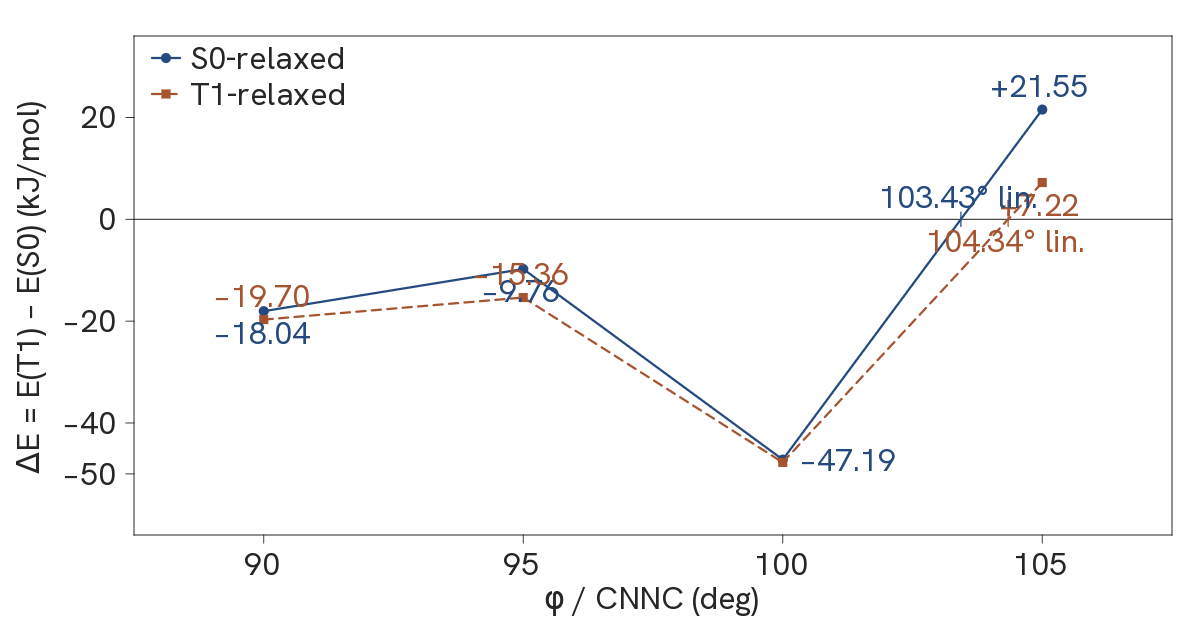
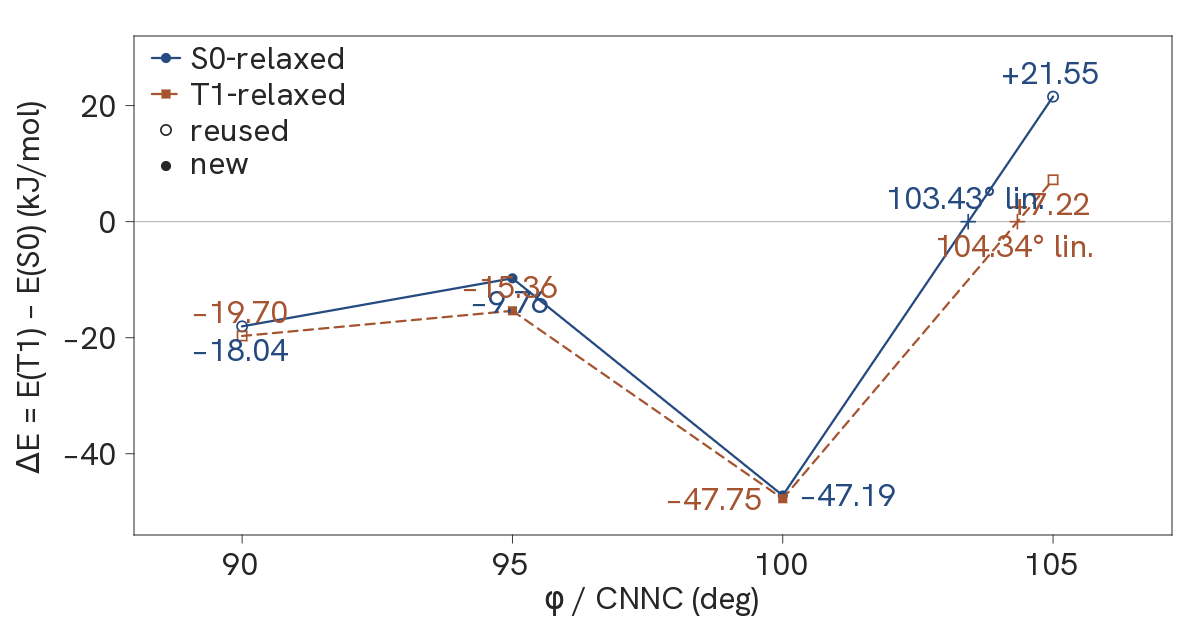
Install Figure 1 from points.json with open/filled markers
Portable regen now reads analysis/points.json for the two-decimal
ΔE labels and the stored 100–105 linear zeros (103.43° / 104.34°),
which are not recomputed from rounded energies. Open markers are
the reused 90° and 105° two-root points; filled markers are the
new 95° and 100° points. Caption matches the delivered figure.

diff --git a/research/hillel-m4-sft-dense-bracket/analysis/make_deltaE_figure.py b/research/hillel-m4-sft-dense-bracket/analysis/make_deltaE_figure.py
@@ -1,10 +1,11 @@
 #!/usr/bin/env python3
 """M4 denser 90–105° same-geometry SF-TDA figure: ACS plot (Fig 1).
 
-Reads results/dense_bracket_metrics.json at runtime for the two
-geometry-family series (S0-relaxed and T1-relaxed) and each family's
-100–105 linear interpolant. Does not invent points and does not label
-an interpolant as an MECP or an evaluated degeneracy. Lab frames are
+Reads analysis/points.json for the two geometry-family series
+(S0-relaxed and T1-relaxed), open/filled reuse flags, and each
+family's stored 100–105 linear interpolant. Does not invent points,
+does not recompute zeros from rounded ΔE, and does not label an
+interpolant as an MECP or an evaluated degeneracy. Lab frames are
 optional: a clean checkout writes the data plot and exits 0.
 
 Usage:
@@ -25,7 +26,7 @@ from PIL import Image, ImageDraw, ImageFont
 HERE = Path(__file__).resolve().parent
 ROOT = HERE.parent
 REPO_ROOT = ROOT.parents[1]
-METRICS_PATH = ROOT / "results" / "dense_bracket_metrics.json"
+POINTS_PATH = HERE / "points.json"
 FRAMES = ROOT / "frames"
 OUT_PREVIEW = HERE / "fig_deltaE_vs_phi.png"
 OUT_PUBLISHED = REPO_ROOT / "images" / "hillel-m4-sft-dense-bracket-figure1.png"
@@ -63,7 +64,7 @@ PLOT_FONT_PX = canvas_font_px(PLOT_W)    # 32
 STILL_FONT_PX = canvas_font_px(STILL_W)  # 43
 
 INK = np.array([38, 38, 38], dtype=np.float64)       # ~0.15 near-black
-ZERO_C = np.array([22, 22, 22], dtype=np.float64)
+ZERO_C = np.array([168, 168, 168], dtype=np.float64)  # grey ΔE=0 hairline
 SERIES_S0 = np.array([36, 74, 128], dtype=np.float64)   # S0-relaxed
 SERIES_T1 = np.array([166, 84, 48], dtype=np.float64)   # T1-relaxed
 WHITE = np.array([255, 255, 255], dtype=np.uint8)
@@ -78,49 +79,64 @@ CROP = (151, 28, 710, 601)  # x0, y0, x1, y1
 
 
 # ---------------------------------------------------------------------------
-# metrics — only source of plotted numbers
+# points.json — only source of plotted numbers
 # ---------------------------------------------------------------------------
 
-def load_metrics(path: Path) -> dict:
-    m = json.loads(path.read_text())
-    series = {family: [] for family in FAMILY_ORDER}
-    for p in m["points"]:
-        fam = p.get("geom_family")
-        if fam not in series:
-            raise SystemExit(f"unexpected geom_family {fam!r}")
-        if not p.get("both_assigned"):
-            raise SystemExit(
-                f"refusing to plot: {fam} φ={p.get('phi_deg')} not both_assigned"
-            )
-        series[fam].append((float(p["phi_deg"]), float(p["deltaE_kJmol"])))
-    for fam, pts in series.items():
+STORED_ZEROS = {"s0_relaxed": 103.43, "t1_relaxed": 104.34}
+
+
+def load_points(path: Path) -> dict:
+    """Load display points and stored zeros. Never interpolate from rounded ΔE."""
+    d = json.loads(path.read_text())
+    if d.get("unit") != "kJ/mol":
+        raise SystemExit(f"points.json unit must be kJ/mol, got {d.get('unit')!r}")
+    reused = [int(x) for x in d["reused_phi_deg"]]
+    new = [int(x) for x in d["new_phi_deg"]]
+    if reused != [90, 105] or new != [95, 100]:
+        raise SystemExit(f"unexpected reuse lists: reused={reused!r} new={new!r}")
+    if set(reused) & set(new):
+        raise SystemExit("a φ cannot be both reused and new")
+
+    series = {}
+    for fam in FAMILY_ORDER:
+        pts = []
+        for p in d[fam]:
+            phi = float(p["phi_deg"])
+            de = float(p["deltaE_kJmol"])
+            reused_flag = bool(p["reused"])
+            iphi = int(phi)
+            if reused_flag != (iphi in reused):
+                raise SystemExit(f"{fam} φ={iphi} reused flag does not match reused_phi_deg")
+            if (iphi in new) == reused_flag:
+                raise SystemExit(f"{fam} φ={iphi} is not exactly one of reused/new")
+            pts.append((phi, de, reused_flag))
         pts.sort(key=lambda t: t[0])
-        if [phi for phi, _ in pts] != [90, 95, 100, 105]:
+        if [int(phi) for phi, _, _ in pts] != [90, 95, 100, 105]:
             raise SystemExit(f"{fam} points are not the required window: {pts!r}")
+        series[fam] = pts
 
     interpolants = {}
-    for pair in m["neighboring_pairs"]:
-        ic = pair.get("interpolated_crossing_phi_deg")
-        fam = pair.get("geom_family")
-        if pair.get("sign_change") and ic is not None:
-            if tuple(pair["pair"]) != (100, 105):
-                raise SystemExit(f"interpolant is not on 100–105: {pair['pair']}")
-            interpolants[fam] = float(ic)
-        elif ic is not None:
-            raise SystemExit("non-null interpolant on a non-sign-change pair")
-
-    if set(interpolants) != set(FAMILY_ORDER):
-        raise SystemExit(f"expected interpolants for both families, got {interpolants!r}")
-    if abs(float(m["crossing_phi_deg_s0"]) - interpolants["s0_relaxed"]) > 1e-9:
-        raise SystemExit("crossing_phi_deg_s0 != S0-relaxed 90–105 interpolant")
-    if abs(float(m["crossing_phi_deg_t1"]) - interpolants["t1_relaxed"]) > 1e-9:
-        raise SystemExit("crossing_phi_deg_t1 != T1-relaxed 90–105 interpolant")
+    zeros = d["linear_zeros"]
+    for fam in FAMILY_ORDER:
+        z = zeros[fam]
+        stored = float(z["phi_deg"])
+        if list(z["bracket"]) != [100, 105]:
+            raise SystemExit(f"{fam} linear zero bracket is not 100–105: {z['bracket']!r}")
+        note = str(z.get("note", "")).lower()
+        if "do not recompute" not in note:
+            raise SystemExit(f"{fam} linear zero is missing the stored-zero note")
+        expected = STORED_ZEROS[fam]
+        if abs(stored - expected) > 1e-9:
+            raise SystemExit(
+                f"{fam} stored zero {stored} != {expected}; "
+                "do not recompute from rounded Delta E"
+            )
+        interpolants[fam] = stored
 
     return {
         "series": series,
         "interpolants": interpolants,
-        "method": m["method"],
-        "slug": m.get("slug", ""),
+        "unit": d["unit"],
     }
 
 
@@ -543,6 +559,12 @@ def square(rgb, cx, cy, half, color, fill=True, stroke=1.2):
     )
 
 
+def plus(rgb, cx, cy, arm, color, width=1.6):
+    """Axis-aligned + on the ΔE=0 line. Not an MECP mark."""
+    line(rgb, cx - arm, cy, cx + arm, cy, color, width)
+    line(rgb, cx, cy - arm, cx, cy + arm, color, width)
+
+
 def dashed_line(rgb, x0, y0, x1, y1, color, width=1.2, dash=9.0, gap=6.5):
     dx, dy = float(x1) - float(x0), float(y1) - float(y0)
     length = math.hypot(dx, dy)
@@ -618,11 +640,11 @@ def load_cropped_frame(surf: str, phi: int) -> np.ndarray:
 # Fig 1 — ACS plot only
 # ---------------------------------------------------------------------------
 
-def render_plot(metrics: dict, font: Font) -> np.ndarray:
+def render_plot(points: dict, font: Font) -> np.ndarray:
     rgb = np.full((PLOT_H, PLOT_W, 3), 255, np.uint8)
 
-    series = metrics["series"]
-    interpolants = metrics["interpolants"]
+    series = points["series"]
+    interpolants = points["interpolants"]
     font_px = PLOT_FONT_PX  # 17 * 1200 / 632 → 32
 
     # Full-canvas plot: no title, no subtitle, no molecule strip.
@@ -631,12 +653,12 @@ def render_plot(metrics: dict, font: Font) -> np.ndarray:
     y_label = "\u0394E = E(T1) \u2212 E(S0) (kJ/mol)"
     x_label = "\u03c6 / CNNC (deg)"
     xticks = [90, 95, 100, 105]
-    yticks = [-50, -40, -20, 0, 20]
+    yticks = [-40, -20, 0, 20]
 
     ytick_w = max(font.measure(fmt_tick(v), font_px)[0] for v in yticks)
     _, ylab_box_w = font.measure(y_label, font_px)  # height before rot = width after
     _, xlab_h = font.measure(x_label, font_px)
-    _, tick_h = font.measure("120", font_px)
+    _, tick_h = font.measure("105", font_px)
 
     left_pad = 16
     ylab_to_ticks = 16
@@ -652,8 +674,8 @@ def render_plot(metrics: dict, font: Font) -> np.ndarray:
     plot_r = PLOT_W - right_pad
     plot_t = top_pad
     plot_b = PLOT_H - (bottom_pad + xlab_h + xlab_gap + tick_h + tick_label_gap + tick_len)
-    xlim = (87.5, 107.5)  # pad only; ticks stay 90/95/100/105
-    ylim = (-62.0, 36.0)
+    xlim = (88.0, 107.2)  # pad only; ticks stay 90/95/100/105
+    ylim = (-54.0, 32.0)
 
     def X(phi):
         return plot_l + (phi - xlim[0]) / (xlim[1] - xlim[0]) * (plot_r - plot_l)
@@ -667,7 +689,7 @@ def render_plot(metrics: dict, font: Font) -> np.ndarray:
     line(rgb, plot_l, plot_t, plot_l, plot_b, INK, 0.9)
     line(rgb, plot_r, plot_t, plot_r, plot_b, INK, 0.9)
 
-    # ΔE = 0 hairline (near-black, thin) — behind the series
+    # ΔE = 0 hairline (grey, thin) — behind the series
     y0 = Y(0.0)
     line(rgb, plot_l, y0, plot_r, y0, ZERO_C, 0.85)
 
@@ -700,43 +722,42 @@ def render_plot(metrics: dict, font: Font) -> np.ndarray:
         font_px, INK, align="center", valign="top",
     )
 
-    # Two series: adjacent both-assigned neighbors only; straight segments.
-    # S0-relaxed: solid line, filled circles. T1-relaxed: dashed, filled squares.
+    # Two series: adjacent neighbors only; straight segments.
+    # S0-relaxed: solid line, circles. T1-relaxed: dashed, squares.
+    # Open = reused published two-root points; filled = new.
     for fam in FAMILY_ORDER:
         pts = series[fam]
         color = FAMILY_COLOR[fam]
-        for (a, da), (b, db) in zip(pts, pts[1:]):
+        for (a, da, _), (b, db, _) in zip(pts, pts[1:]):
             if fam == "t1_relaxed":
                 dashed_line(rgb, X(a), Y(da), X(b), Y(db), color, 2.15)
             else:
                 line(rgb, X(a), Y(da), X(b), Y(db), color, 2.15)
-        for phi, de in pts:
+        for phi, de, reused in pts:
             if fam == "s0_relaxed":
-                circle(rgb, X(phi), Y(de), 5.1, color, fill=True)
+                circle(rgb, X(phi), Y(de), 5.1, color, fill=not reused, stroke=1.8)
             else:
-                square(rgb, X(phi), Y(de), 4.6, color, fill=True)
+                square(rgb, X(phi), Y(de), 4.6, color, fill=not reused, stroke=1.8)
 
-    # Point labels from file values, 2 decimals, series color.
-    # T1 100 is drawn unlabeled so the two lin. hashes stay readable.
+    # Point labels from points.json, 2 decimals, series color. All eight.
     label_off = {
         "s0_relaxed": {
-            90: (0, 22, "center"),
-            95: (0, 22, "center"),
+            90: (0, 24, "center"),
+            95: (0, 24, "center"),
             100: (16, 0, "left"),
             105: (0, -24, "center"),
         },
         "t1_relaxed": {
             90: (0, -24, "center"),
             95: (0, -24, "center"),
-            105: (0, 22, "center"),
+            100: (-16, 0, "right"),
+            105: (0, 24, "center"),
         },
     }
     for fam in FAMILY_ORDER:
         color = FAMILY_COLOR[fam]
-        for phi, de in series[fam]:
+        for phi, de, _reused in series[fam]:
             key = int(phi)
-            if key not in label_off[fam]:
-                continue
             dx, dy, al = label_off[fam][key]
             text(
                 rgb, font, fmt_delta(de),
@@ -744,21 +765,20 @@ def render_plot(metrics: dict, font: Font) -> np.ndarray:
                 font_px, color, align=al, valign="middle",
             )
 
-    # Stored interpolants only: short hashes on the zero line, labeled "lin."
-    # Not 110°. Not drawn as an MECP, a star, or an evaluated degeneracy.
+    # Stored interpolants only: + on the zero line, labeled "lin."
+    # Drawn from points.json linear_zeros. Not recomputed. Not an MECP.
     s0_xc = interpolants["s0_relaxed"]
     t1_xc = interpolants["t1_relaxed"]
-    hash_h = 7
-    line(rgb, X(s0_xc), y0 - hash_h, X(s0_xc), y0 + hash_h, SERIES_S0, 1.15)
-    line(rgb, X(t1_xc), y0 - hash_h, X(t1_xc), y0 + hash_h, SERIES_T1, 1.15)
+    plus(rgb, X(s0_xc), y0, 7.0, SERIES_S0, 1.6)
+    plus(rgb, X(t1_xc), y0, 7.0, SERIES_T1, 1.6)
     text(
         rgb, font, f"{s0_xc:.2f}\u00b0 lin.",
-        X(s0_xc), y0 - 10,
+        X(s0_xc), y0 - 12,
         font_px, SERIES_S0, align="center", valign="bottom",
     )
     text(
         rgb, font, f"{t1_xc:.2f}\u00b0 lin.",
-        X(t1_xc), y0 + 10,
+        X(t1_xc), y0 + 12,
         font_px, SERIES_T1, align="center", valign="top",
     )
 
@@ -778,6 +798,20 @@ def render_plot(metrics: dict, font: Font) -> np.ndarray:
     text(
         rgb, font, FAMILY_LABEL["t1_relaxed"],
         legend_x + 38, legend_y2,
+        font_px, INK, align="left", valign="middle",
+    )
+    legend_y3 = legend_y2 + 36
+    circle(rgb, legend_x + 14, legend_y3, 5.1, INK, fill=False, stroke=1.8)
+    text(
+        rgb, font, "reused",
+        legend_x + 38, legend_y3,
+        font_px, INK, align="left", valign="middle",
+    )
+    legend_y4 = legend_y3 + 36
+    circle(rgb, legend_x + 14, legend_y4, 5.1, INK, fill=True)
+    text(
+        rgb, font, "new",
+        legend_x + 38, legend_y4,
         font_px, INK, align="left", valign="middle",
     )
 
@@ -865,17 +899,22 @@ def load_plot_font() -> Font:
 
 
 def main():
-    metrics = load_metrics(METRICS_PATH)
-    print("points (from results/dense_bracket_metrics.json):")
+    points = load_points(POINTS_PATH)
+    print("points (from analysis/points.json):")
     for fam in FAMILY_ORDER:
         print(f"  {fam}:")
-        for phi, de in metrics["series"][fam]:
-            print(f"    phi={phi:g}  deltaE_kJmol={de}  label={fmt_delta(de)}")
+        for phi, de, reused in points["series"][fam]:
+            kind = "reused" if reused else "new"
+            print(
+                f"    phi={phi:g}  deltaE_kJmol={de}  "
+                f"label={fmt_delta(de)}  {kind}"
+            )
     for fam in FAMILY_ORDER:
-        xc = metrics["interpolants"][fam]
-        print(f"interpolant {fam} phi={xc}  label={xc:.2f}° lin.")
+        xc = points["interpolants"][fam]
+        print(f"stored linear zero {fam} phi={xc}  label={xc:.2f}° lin.")
     print("pairs with a drawn interpolant: 100–105 on each family")
-    print("T1 100 is drawn unlabeled; interpolants are short hashes labeled lin.")
+    print("zeros are stored; not recomputed from rounded Delta E")
+    print("open markers = reused; filled markers = new; interpolants are + labeled lin.")
     print("ACS: no title, no subtitle, no stills on the plot")
     print(
         f"standing rule: font_px = round({BODY_PX} * W / {DISPLAY_W}) "
@@ -887,7 +926,7 @@ def main():
     print(f"Pillow faces: {HANKEN_TTF.name} + {DEJAVU_TTF.name}")
     print(f"ImageFont.truetype plot={PLOT_FONT_PX} stills={STILL_FONT_PX}")
 
-    plot = render_plot(metrics, font)
+    plot = render_plot(points, font)
     if plot.shape[1] != PLOT_W or plot.shape[0] != PLOT_H:
         raise SystemExit(f"bad plot size {plot.shape}")
     write_png(OUT_PREVIEW, plot)

diff --git a/posts/2026-09-09-does-a-denser-m4-bracket-keep-the-sign-change.md b/posts/2026-09-09-does-a-denser-m4-bracket-keep-the-sign-change.md
@@ -63,10 +63,10 @@ Raw ORCA `.out` files stay in the private Molecules lab. They are large and carr
 **Table 2.** Same-geometry SF-TDA gap $\Delta E = E(\mathrm{T1})-E(\mathrm{S0})$ on each T1-relaxed constrained-CNNC geometry. Both roots come from one SF-TDA single point. Same method as Table 1.
 
 <figure>
-  <img src="/images/hillel-m4-sft-dense-bracket-figure1.png" alt="Same-geometry SF-TDA gap ΔE versus constrained CNNC angle φ for S0-relaxed (solid blue circles) and T1-relaxed (dashed orange squares) M4 geometries at 90, 95, 100, and 105 degrees. Points are labeled with ΔE except T1 at 100 degrees. Short hashes on the zero line mark the 100–105 linear interpolants, labeled lin.">
+  <img src="/images/hillel-m4-sft-dense-bracket-figure1.png" alt="Same-geometry SF-TDA gap ΔE versus constrained CNNC angle φ for S0-relaxed (solid blue circles) and T1-relaxed (dashed orange squares) M4 geometries at 90, 95, 100, and 105 degrees. Open markers are reused published two-root points at 90° and 105°; filled markers are new points at 95° and 100°. All eight points are labeled with ΔE. Plus marks on the zero line are the stored 100–105 linear interpolants, labeled lin.">
 </figure>
 
-**Figure 1.** Same-geometry SF-TDA gap versus constrained CNNC angle φ on the two geometry families. The [both_assigned_point_count]{.metric} both-assigned points come from the scored dump (ORCA 6.1.1 SF-TDA, LibXC BHANDHLYP, D3BJ/def2-QZVPP). S0-relaxed: φ = 90°, ΔE = [deltae_kjmol_s0_90]{.metric} kJ/mol; 95°, [deltae_kjmol_s0_95]{.metric}; 100°, [deltae_kjmol_s0_100]{.metric}; 105°, [deltae_kjmol_s0_105]{.metric}. T1-relaxed: 90°, [deltae_kjmol_t1_90]{.metric}; 95°, [deltae_kjmol_t1_95]{.metric}; 100°, [deltae_kjmol_t1_100]{.metric} (drawn unlabeled on the plot); 105°, [deltae_kjmol_t1_105]{.metric}. Adjacent both-assigned neighbors are joined by straight segments. The 100–105 pair changes sign on both families; [crossing_phi_deg_s0]{.metric}° and [crossing_phi_deg_t1]{.metric}° are those pairs’ linear interpolants at ΔE = 0, marked as short hashes labeled lin.
+**Figure 1.** A denser CNNC bracket still flips on 100–105° for both geometry families. Linear estimates from that pair are not MECPs. 90° and 105° are reused published two-root points (open markers); 95° and 100° are new (filled).
 
 On both constrained-CNNC geometry families, the same-geometry SF-TDA gap $E(\mathrm{T1})-E(\mathrm{S0})$ changes sign between [flip_phi_lo_deg]{.metric}° and [flip_phi_hi_deg]{.metric}° (Figure 1). The linear interpolant of the S0-relaxed 100°/105° pair is [crossing_phi_deg_s0]{.metric}°. The linear interpolant of the T1-relaxed 100°/105° pair is [crossing_phi_deg_t1]{.metric}°. The 90°/95° pair does not change sign on the S0-relaxed family ([deltae_kjmol_s0_90]{.metric} and [deltae_kjmol_s0_95]{.metric} kJ/mol) or on the T1-relaxed family ([deltae_kjmol_t1_90]{.metric} and [deltae_kjmol_t1_95]{.metric} kJ/mol). The 95°/100° pair does not change sign on either family ([deltae_kjmol_s0_95]{.metric} and [deltae_kjmol_s0_100]{.metric} kJ/mol; [deltae_kjmol_t1_95]{.metric} and [deltae_kjmol_t1_100]{.metric} kJ/mol).
 

diff --git a/research/hillel-m4-sft-dense-bracket/README.md b/research/hillel-m4-sft-dense-bracket/README.md
@@ -69,21 +69,26 @@ python3 -m pip install -r research/hillel-m4-sft-dense-bracket/requirements-figu
 python3 research/hillel-m4-sft-dense-bracket/analysis/make_deltaE_figure.py
 ```
 
-The renderer loads the committed `analysis/hanken-grotesk.ttf` with
-Pillow `ImageFont.truetype` for Latin ticks and numbers. Axis Δ and
-φ come from the committed `analysis/dejavu-sans.ttf` at the same
-pixel size. Coverage is checked from each TTF cmap before drawing.
-The renderer does not look up a host font path. Lab-side molecular
-stills are optional and are not in this repository. The same command
-writes the data plot from the committed scored dump and exits 0
-when frames are absent.
+The renderer loads `analysis/points.json` for the two-decimal ΔE
+labels, open/filled reuse flags, and the stored 100–105 linear
+zeros (103.43° S0-relaxed, 104.34° T1-relaxed). Those zeros are
+not recomputed from the rounded ΔE values. Fonts are the committed
+`analysis/hanken-grotesk.ttf` via Pillow `ImageFont.truetype` for
+Latin ticks and numbers. Axis Δ and φ come from the committed
+`analysis/dejavu-sans.ttf` at the same pixel size. Coverage is
+checked from each TTF cmap before drawing. The renderer does not
+look up a host font path. Lab-side molecular stills are optional
+and are not in this repository. The same command writes the data
+plot and exits 0 when frames are absent.
 
 The command updates:
 
 - `images/hillel-m4-sft-dense-bracket-figure1.png`
 
-Point labels on the plot are the stored ΔE values. Linear
-interpolants of the 100–105 pairs are short hashes on the ΔE = 0
+Point labels on the plot are the `points.json` ΔE values. Open
+markers are the reused 90° and 105° published two-root points;
+filled markers are the new 95° and 100° points. Linear
+interpolants of the 100–105 pairs are plus marks on the ΔE = 0
 line, labeled “lin.”
 
 ## Data and publication
